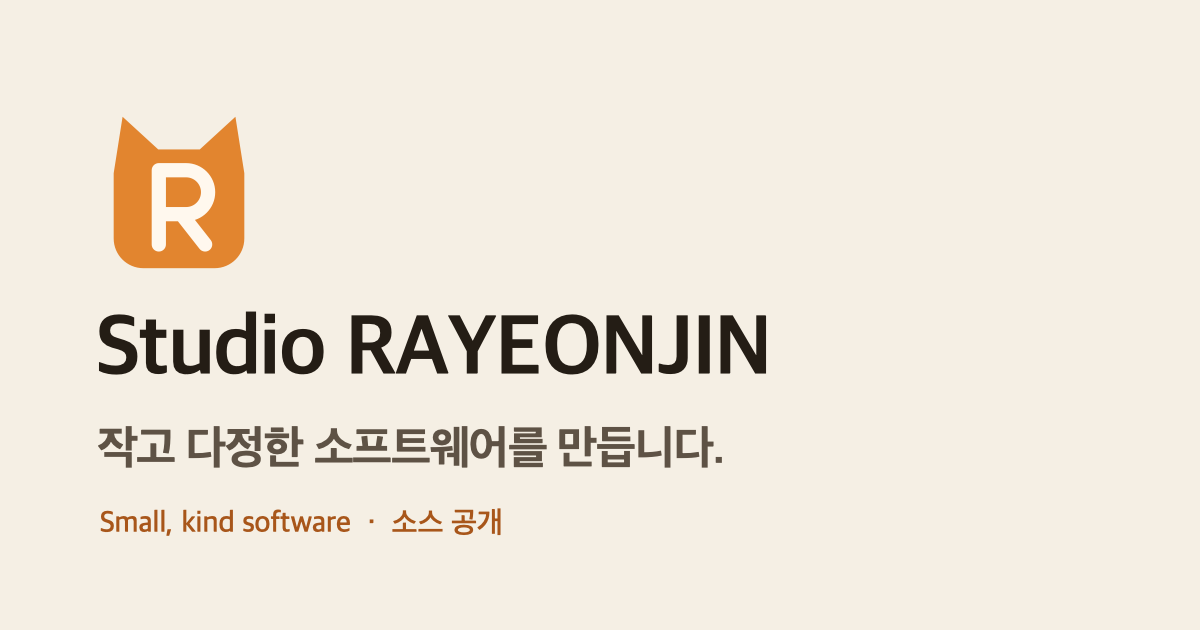
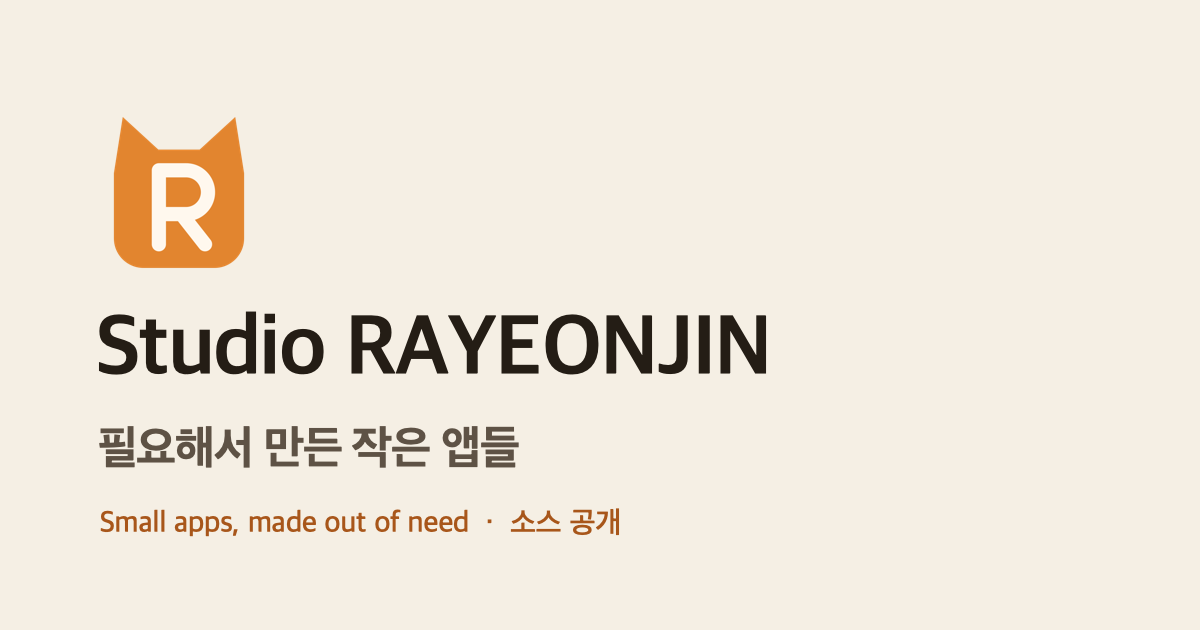
Drop the hero app list; new headline "Small apps, made out of need"

Changed region(s): [[0.0617, 0.6635, 0.6167, 0.754], [0.1233, 0.7841, 0.5242, 0.8444]]

diff --git a/i18n.js b/i18n.js
@@ -109,7 +109,7 @@
   // Page strings for languages other than Korean.
   const PAGE = {
     en: {
-      "meta.title": "Studio RAYEONJIN · Small, kind software",
+      "meta.title": "Studio RAYEONJIN · Small apps, made out of need",
       "meta.description": "The small apps from Studio RAYEONJIN: everyday tools built to last, with their source code out in the open.",
       "a11y.home": "Studio RAYEONJIN home",
       "a11y.mainMenu": "Main menu",
@@ -120,13 +120,9 @@
       "nav.dashboard": "Activity",
       "nav.history": "History",
       "nav.faq": "FAQ",
-      "hero.title": "Small, kind<br>software.",
+      "hero.title": "Small apps,<br>made out of need",
       "hero.tagline": "",
       "hero.lede": `This is where Studio RAYEONJIN’s apps live.${BR}Everyday tools, made one at a time and built to last.${BR}For now it’s mostly macOS apps. Work for other platforms will show up here when it’s ready.`,
-      "shelf.label": "Apps",
-      "shelf.catoshi": "Menu-bar cat with BTC prices",
-      "shelf.uncomew": "Find what’s taking up space",
-      "shelf.memo": "Notes that link to each other",
       "about.title": "Studio RAYEONJIN",
       "about.p1": `Every app here starts from a real, everyday need.${BR}Each one is used and refined day to day before it’s shared with anyone who needs the same thing.`,
       "about.why": `The reason the source is public is simple:${BR}nobody with the same need should have to burn time and effort on the same <span class="nw">trial and error</span>.${BR}Put that time into a different problem instead, and if you share what you build too, all the better.`,
@@ -178,7 +174,7 @@
       "footer.fine": "© 2026 Rayeonjin · This site uses no cookies and only collects visit statistics that don’t identify anyone.",
     },
     zh: {
-      "meta.title": "Studio RAYEONJIN · 小而美、有温度的软件",
+      "meta.title": "Studio RAYEONJIN · 因为需要而做的小应用",
       "meta.description": "Studio RAYEONJIN 的小应用合集：放在手边、能长久使用的日常工具，源代码全部公开。",
       "a11y.home": "返回 Studio RAYEONJIN 首页",
       "a11y.mainMenu": "主菜单",
@@ -189,13 +185,9 @@
       "nav.dashboard": "动态",
       "nav.history": "历程",
       "nav.faq": "常见问题",
-      "hero.title": "做小而美、<br>有温度的软件。",
-      "hero.tagline": "Small, kind software.",
+      "hero.title": "因为需要<br>而做的小应用",
+      "hero.tagline": "Small apps, made out of need.",
       "hero.lede": `这里收录了 Studio RAYEONJIN 的应用。${BR}都是放在手边、能长久用下去的日常工具，一个一个慢慢做。${BR}目前以 macOS 应用为主，其他平台的作品准备好后也会发布在这里。`,
-      "shelf.label": "应用列表",
-      "shelf.catoshi": "菜单栏小猫与 BTC 行情",
-      "shelf.uncomew": "找出占用空间的大文件",
-      "shelf.memo": "彼此相连的笔记",
       "about.title": "Studio RAYEONJIN",
       "about.p1": `这里的每个应用，都源于日常中的真实需求。${BR}经过反复使用和打磨后，再开放给有同样需要的人。`,
       "about.why": `公开源代码的理由很简单：${BR}希望有同样需要的人，不必再把时间和精力花在同样的反复试错上。${BR}省下的时间可以去解决别的问题；如果你也愿意把成果公开出来，那就再好不过了。`,
@@ -247,7 +239,7 @@
       "footer.fine": "© 2026 Rayeonjin · 本站不使用 Cookie，仅收集无法识别个人身份的访问统计。",
     },
     es: {
-      "meta.title": "Studio RAYEONJIN · Software pequeño y cercano",
+      "meta.title": "Studio RAYEONJIN · Pequeñas apps hechas porque hacían falta",
       "meta.description": "Las pequeñas apps de Studio RAYEONJIN: herramientas para el día a día, pensadas para durar y con el código fuente a la vista.",
       "a11y.home": "Inicio de Studio RAYEONJIN",
       "a11y.mainMenu": "Menú principal",
@@ -258,13 +250,9 @@
       "nav.dashboard": "Actividad",
       "nav.history": "Historial",
       "nav.faq": "FAQ",
-      "hero.title": "Software pequeño<br>y cercano.",
-      "hero.tagline": "Small, kind software.",
+      "hero.title": "Pequeñas apps,<br>hechas porque <span class=\"nw\">hacían falta</span>",
+      "hero.tagline": "Small apps, made out of need.",
       "hero.lede": `Aquí están las apps de Studio RAYEONJIN.${BR}Herramientas para el día a día, hechas una a una y pensadas para durar.${BR}Por ahora son sobre todo apps para macOS; lo demás llegará aquí cuando esté listo.`,
-      "shelf.label": "Apps",
-      "shelf.catoshi": "Gato de la barra de menús y precio de BTC",
-      "shelf.uncomew": "Descubre qué ocupa espacio",
-      "shelf.memo": "Notas que se enlazan entre sí",
       "about.title": "Studio RAYEONJIN",
       "about.p1": `Cada app nace de una necesidad real <span class="nw">del día a día</span>.${BR}Primero la usamos y pulimos a fondo; después la compartimos con quien tenga la misma necesidad.`,
       "about.why": `El motivo para publicar el código es sencillo:${BR}que nadie con la misma necesidad pierda tiempo y esfuerzo repitiendo el mismo <span class="nw">ensayo y error</span>.${BR}Dedica ese tiempo a otro problema y, si además compartes lo que construyas, mucho mejor.`,

diff --git a/styles.css b/styles.css
@@ -551,30 +551,10 @@ h1, h2, h4 { font-family: var(--heading); font-weight: 700; letter-spacing: -0.0
 .lang-picker:focus-within { outline-color: var(--note); }
 
 /* ==========================================================================
-   Layout (2026-11-14): hero app shelf, one template per app, paragraph text,
+   Layout (2026-11-14): one template per app, paragraph text,
    and two flat note touches. Layered over the rules above.
    ========================================================================== */
 .wrap, .menubar-inner { width: min(1040px, 100% - 32px); }
-
-/* ---------- hero: intro + app shelf ---------- */
-.hero-main {
-  display: grid; grid-template-columns: minmax(0, 1fr) 280px;
-  column-gap: 56px; align-items: start;
-}
-.hero-text .lede { max-width: 32em; }
-.shelf {
-  list-style: none; margin: 10px 0 0; padding: 0;
-  border-top: 1px solid var(--line);
-}
-.shelf li { border-bottom: 1px solid var(--line); }
-.shelf a {
-  display: grid; grid-template-columns: 40px minmax(0, 1fr); gap: 14px; align-items: center;
-  padding: 14px 4px; text-decoration: none; color: var(--ink);
-}
-.shelf img { width: 40px; height: 40px; border-radius: 10px; }
-.shelf a > span { display: flex; flex-direction: column; gap: 2px; min-width: 0; }
-.shelf strong { font-family: var(--heading); font-size: 16px; font-weight: 700; }
-.shelf em { font-style: normal; font-size: 13.5px; color: var(--ink-faint); }
 
 /* ---------- works: one template per app ---------- */
 .section > .app {
@@ -601,10 +581,6 @@ h1, h2, h4 { font-family: var(--heading); font-weight: 700; letter-spacing: -0.0
 .app-main p br.w, .faq p br.w { display: none; }
 
 /* ---------- smaller screens ---------- */
-@media (max-width: 960px) {
-  .hero-main { grid-template-columns: minmax(0, 1fr); row-gap: 28px; }
-  .shelf { max-width: 420px; margin-top: 0; }
-}
 @media (max-width: 720px) {
   .section > .app { grid-template-columns: 44px minmax(0, 1fr); column-gap: 16px; padding: 26px 0; }
   .app > .app-icon { width: 44px; height: 44px; border-radius: 11px; }
@@ -614,19 +590,9 @@ h1, h2, h4 { font-family: var(--heading); font-weight: 700; letter-spacing: -0.0
 
 /* ---------- polish ---------- */
 /* Same edge on every icon, so a white icon weighs the same as a coloured one. */
-.shelf img, .app > .app-icon { box-shadow: 0 0 0 1px var(--line); }
-/* Shelf rows read as links: a quiet arrow and a tint on hover/focus. */
-.shelf a { grid-template-columns: 40px minmax(0, 1fr) 12px; border-radius: 6px; transition: background-color .15s ease; }
-.shelf a::after {
-  content: ""; width: 7px; height: 7px; justify-self: end;
-  border-right: 1.5px solid var(--ink-faint); border-top: 1.5px solid var(--ink-faint);
-  transform: rotate(45deg);
-}
-.shelf a:hover, .shelf a:focus-visible { background: color-mix(in srgb, var(--card) 70%, transparent); }
-.shelf a:hover::after { border-color: var(--ink); }
+.app > .app-icon { box-shadow: 0 0 0 1px var(--line); }
 /* Jump targets land below the sticky bar. */
 .app[id] { scroll-margin-top: 72px; }
-@media (prefers-reduced-motion: reduce) { .shelf a { transition: none; } }
 
 /* ---------- note touches, kept flat: no tilt, no drop shadows ---------- */
 :root { --tape: #efe3b4; --sticky: #fdf7d8; --sticky-line: #ece2b2; --sticky-ink: #3b3420; }
@@ -665,10 +631,8 @@ h1, h2, h4 { font-family: var(--heading); font-weight: 700; letter-spacing: -0.0
 /* Never let decorative pieces widen the page. */
 main { overflow-x: clip; }
 
-/* Restraint: no highlighter. App names rely on weight alone; the shelf
-   underlines on hover only. */
+/* Restraint: no highlighter. App names rely on weight alone. */
 .app h4, .section > .app h4 { text-decoration: none; }
-.shelf a:hover strong { text-decoration: underline; text-decoration-color: currentColor; text-decoration-thickness: 1px; text-underline-offset: 4px; }
 
 /* Repository table, tidied: the name column takes the spare width and the
    data columns hug their content, so the gaps between them are even. Rows

diff --git a/index.html b/index.html
@@ -3,10 +3,10 @@
 <head>
   <meta charset="utf-8">
   <meta name="viewport" content="width=device-width, initial-scale=1">
-  <title data-i18n="meta.title">Studio RAYEONJIN · 작고 다정한 소프트웨어</title>
+  <title data-i18n="meta.title">Studio RAYEONJIN · 필요해서 만든 작은 앱들</title>
   <meta name="description" data-i18n-attr="content:meta.description" content="Studio RAYEONJIN에서 만든 작은 앱들을 모아 둔 곳입니다. 일상 가까이에 두고 오래 쓸 수 있는 도구를 만들고, 소스를 공개합니다.">
   <meta property="og:title" content="Studio RAYEONJIN">
-  <meta property="og:description" content="작고 다정한 소프트웨어를 만드는 스튜디오. Small, kind software.">
+  <meta property="og:description" content="필요해서 만든 작은 앱들. 소스를 공개합니다. Small apps, made out of need.">
   <meta property="og:type" content="website">
   <meta property="og:site_name" content="Studio RAYEONJIN">
   <meta property="og:locale" content="ko_KR">
@@ -17,7 +17,7 @@
   <meta property="og:image" content="https://studio-rayeonjin.vercel.app/assets/og.png">
   <meta property="og:image:width" content="1200">
   <meta property="og:image:height" content="630">
-  <meta property="og:image:alt" content="Studio RAYEONJIN, 작고 다정한 소프트웨어를 만듭니다.">
+  <meta property="og:image:alt" content="Studio RAYEONJIN, 필요해서 만든 작은 앱들">
   <meta name="twitter:card" content="summary_large_image">
   <link rel="canonical" id="canonical" href="https://studio-rayeonjin.vercel.app/">
   <link rel="alternate" hreflang="ko" href="https://studio-rayeonjin.vercel.app/?lang=ko">
@@ -112,23 +112,14 @@
 
     <section class="hero wrap">
       <p class="eyebrow">./Rayeonjin</p>
-      <div class="hero-main">
-        <div class="hero-text">
-          <h1 data-i18n="hero.title">작고 다정한<br>소프트웨어를 만듭니다.</h1>
-          <p class="hero-en" data-i18n="hero.tagline">Small, kind software.</p>
-          <p class="lede" data-i18n="hero.lede">Studio RAYEONJIN의 앱을 모아 둔 곳입니다.<br class="w"> 일상 가까이에 두고 <span class="nw">오래 쓸</span> 도구를 하나씩 만들고 있습니다.<br class="w"> 지금은 macOS 앱이 중심이고, 다른 플랫폼의 작업도 <span class="nw">준비되는 대로</span> 올립니다.</p>
-            <p class="hero-links">
+      <h1 data-i18n="hero.title">필요해서 만든<br>작은 앱들</h1>
+      <p class="hero-en" data-i18n="hero.tagline">Small apps, made out of need.</p>
+      <p class="lede" data-i18n="hero.lede">Studio RAYEONJIN의 앱을 모아 둔 곳입니다.<br class="w"> 일상 가까이에 두고 <span class="nw">오래 쓸</span> 도구를 하나씩 만들고 있습니다.<br class="w"> 지금은 macOS 앱이 중심이고, 다른 플랫폼의 작업도 <span class="nw">준비되는 대로</span> 올립니다.</p>
+      <p class="hero-links">
         <a href="https://github.com/Rayeonjin">GitHub</a>
         <a href="https://t.me/Rayeonjin">Telegram</a>
         <a href="/feed.xml">RSS</a>
       </p>
-        </div>
-        <ul class="shelf" data-i18n-attr="aria-label:shelf.label" aria-label="앱 목록">
-          <li><a href="#app-catoshi"><img src="assets/catoshi-icon.png" alt="" width="40" height="40"><span><strong>Catoshi</strong><em data-i18n="shelf.catoshi">메뉴바 고양이와 BTC 시세</em></span></a></li>
-          <li><a href="#app-uncomew"><img src="assets/uncomew-icon.svg" alt="" width="40" height="40"><span><strong>Uncomew</strong><em data-i18n="shelf.uncomew">큰 파일 찾기와 앱 정리</em></span></a></li>
-          <li><a href="#app-memoweaver"><img src="assets/memoweaver-icon.png" alt="" width="40" height="40"><span><strong>MemoWeaver</strong><em data-i18n="shelf.memo">메모끼리 연결되는 노트</em></span></a></li>
-        </ul>
-      </div>
     </section>
 
     <section id="about" class="wrap section section-tight">
